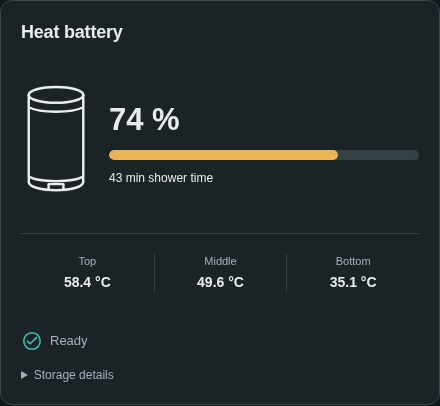
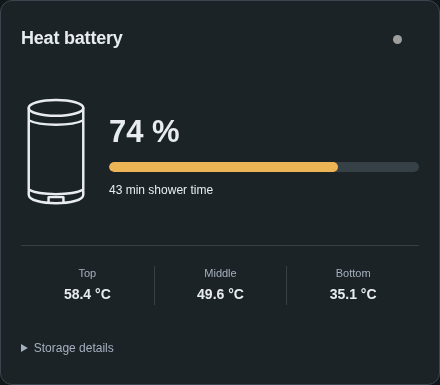
Use the Overview status dot on the Heat Battery card

diff --git a/src/cards/heat-battery-card.ts b/src/cards/heat-battery-card.ts
@@ -10,7 +10,8 @@ export class QuattHeatBatteryCard extends BaseCard {
     .meter{height:10px;border-radius:5px;background:var(--qc-line);overflow:hidden}.fill{height:100%;background:var(--qc-heat);border-radius:inherit}
     .shower{font-size:12px;margin-top:10px}.shower .value{font-size:12px;font-weight:400}
     .temperatures{display:grid;grid-template-columns:repeat(var(--count,3),minmax(0,1fr));padding:20px 0;border-top:1px solid var(--qc-line)}.temperatures .stat{align-items:center;text-align:center;padding:0 8px}.temperatures .stat+.stat{border-left:1px solid var(--qc-line)}
-    .temperatures .value{font-size:14px}.temperatures .label{font-size:11px}.state-line{margin-top:auto;padding-top:18px;font-size:13px}.state-line .icon{width:22px;height:22px;color:var(--qc-good)}
+    .temperatures .value{font-size:14px}.temperatures .label{font-size:11px}
+    .battery-heading{display:flex;align-items:center;gap:10px;margin-bottom:18px}.battery-heading .ob-header{flex:1;min-width:0;margin-bottom:0}
     .details{margin-top:15px;font-size:12px;color:var(--qc-secondary)}summary{cursor:pointer}.details .stat-grid{margin-top:14px}.details .value{font-size:13px}
     @container(max-width:350px){.charge{grid-template-columns:60px minmax(0,1fr);gap:14px}.tank .icon{width:60px;height:110px}.charge .value{font-size:28px}.shower .value{font-size:12px}}
     ha-card.custom-fields{min-height:0}
@@ -23,11 +24,11 @@ export class QuattHeatBatteryCard extends BaseCard {
     const selected=temperatures.filter(([key])=>this.showField(key));
     const details: [MetricRole,string,typeof m.charge][]=[['heaterPower','Charger input',c?.heaterPower||c?.electricPower],['waterPressure','Water pressure',c?.waterPressure],['charging','Storage charging',m.charging],['hotWater','Hot-water use',m.hotWater],['boost','Boost',m.boost]];
     const selectedDetails=details.filter(([key,,reading])=>this.showField(key)&&reading);
-    return html`<ha-card class=${this.config.fields?'custom-fields':''}>${this.renderHeader('Heat battery')}${this.renderNotice()}${this.showField('charge')||this.showField('showerMinutes')?html`<div class="charge"><span class="tank">${icon('tank')}</span><div>
+    return html`<ha-card class=${this.config.fields?'custom-fields':''}><div class="battery-heading">${this.renderHeader('Heat battery')}${this.showField('status')?this.batteryStatus(device):nothing}</div>${this.renderNotice()}${this.showField('charge')||this.showField('showerMinutes')?html`<div class="charge"><span class="tank">${icon('tank')}</span><div>
       <div class="charge-title">${this.value(charge!=null?m.charge:this.showField('showerMinutes')?m.showerMinutes:undefined,charge!=null?'Thermal charge':this.showField('showerMinutes')?'Shower time remaining':'Thermal charge','value',0)}</div>
       ${charge!=null?html`<div class="meter" role="meter" aria-label="Thermal charge" aria-valuemin="0" aria-valuemax="100" aria-valuenow=${charge}><div class="fill" style=${`width:${charge}%`}></div></div>${this.showField('showerMinutes')?html`<div class="shower">${this.value(m.showerMinutes,'Shower time','value',0)} shower time</div>`:nothing}`:html`<span class="label">${this.showField('showerMinutes')?'Shower time remaining':'Thermal charge unavailable'}</span>`}
     </div></div>`:nothing}${selected.length?html`<div class="temperatures" style=${`--count:${selected.length}`}>${selected.map(([key,label])=>this.metric(label,m[key]))}</div>`:nothing}
-    ${this.showField('status')?html`<div class="state-line">${icon(device.available?'check':'warning')}<span>${!device.available?'Unavailable':m.status?.text|| (this.on(m.charging)?'Charging':'Status unavailable')}</span></div>`:nothing}
+
     ${selectedDetails.length?html`<details class="details"><summary>Storage details</summary><div class="stat-grid">${selectedDetails.map(([,label,reading])=>this.metric(label,reading,true))}</div></details>`:nothing}
     </ha-card>`;
   }

diff --git a/tests/browser/extended-card-states.spec.ts b/tests/browser/extended-card-states.spec.ts
@@ -49,11 +49,12 @@ test('battery missing charge, status and optional sensors stay truthful',async({
  await page.evaluate(()=>{window.demo.setScenario('partial');window.demo.setConfig('heat-battery',{fields:{showerMinutes:false}});});
  await expect(card.getByText('Thermal charge unavailable',{exact:true})).toBeVisible();await expect(card.getByRole('meter')).toHaveCount(0);
  await card.evaluate(e=>{const c=e as Card,states={...c.hass.states};for(const [id,s] of Object.entries(states)){if(id.endsWith('heatbatterystatus'))states[id]={...s,state:'unavailable'};if(id.endsWith('isheatbatterycharging'))states[id]={...s,state:'on'};}c.hass={...c.hass,states};});
- await expect(card.locator('.state-line')).toHaveText('Charging');
+ await expect(card.locator('.battery-status')).toHaveAttribute('title','Heat battery status: Unavailable');
+ await expect(card.locator('.status-dot')).not.toHaveClass(/\bon\b/);
  await card.evaluate(e=>{const c=e as Card,states={...c.hass.states};for(const [id,s] of Object.entries(states))if(id.endsWith('isheatbatterycharging'))states[id]={...s,state:'off'};c.hass={...c.hass,states};});
- await expect(card.locator('.state-line')).toHaveText('Status unavailable');
+ await expect(card.locator('.battery-status')).toHaveAttribute('title','Heat battery status: Unavailable');
  await card.evaluate(e=>{const c=e as Card,states={...c.hass.states};for(const [id,s] of Object.entries(states))if(id.includes('heat_battery'))states[id]={...s,state:'unavailable'};c.hass={...c.hass,states};});
- await expect(card.locator('.state-line')).toHaveText('Unavailable');
+ await expect(card.locator('.battery-status')).toHaveAttribute('title','Heat battery status: Unavailable');
 });
 
 test('pump status opt-in handles defrost, offline, unknown status and unknown device selection',async({page})=>{
@@ -92,9 +93,9 @@ test('circuit optional readings, missing devices and uncertain topology do not f
  await expect(card.getByText(/Pump order unavailable/)).toBeVisible();await expect(card.locator('.pipes')).toHaveCount(0);await expect(card.locator('.delta')).toContainText('—');
 });
 
-test('overview heat battery dot is green for Charging and returns to gray when inactive',async({page})=>{
+for(const type of ['overview','heat-battery'])test(`${type} heat battery dot is green for Charging and returns to gray when inactive`,async({page})=>{
  await page.goto('/');
- const card=page.locator('quatt-overview-card'),dot=card.locator('.battery-status .status-dot');
+ const card=page.locator(`quatt-${type}-card`),dot=card.locator('.battery-status .status-dot');
  await card.evaluate(e=>{e.style.setProperty('--success-color','#43a047');e.style.setProperty('--disabled-text-color','#9e9e9e');});
  for(const status of ['Off','Charging','Ready','CHARGING','unavailable',' charging ','On','Discharging','Not charging','unknown','Off']){
   await card.evaluate((e,status)=>{
@@ -110,6 +111,6 @@ test('overview heat battery dot is green for Charging and returns to gray when i
  await page.evaluate(()=>document.addEventListener('hass-more-info',e=>{document.body.dataset.entity=(e as CustomEvent).detail.entityId;}));
  await card.locator('.battery-status').click();
  await expect(page.locator('body')).toHaveAttribute('data-entity',/heatbatterystatus$/);
- await page.evaluate(()=>window.demo.setConfig('overview',{fields:{'heatBattery.status':false}}));
+ await page.evaluate(type=>window.demo.setConfig(type,{fields:{[type==='overview'?'heatBattery.status':'status']:false}}),type);
  await expect(dot).toHaveCount(0);
 });

diff --git a/src/cards/overview-card.ts b/src/cards/overview-card.ts
@@ -1,7 +1,7 @@
 import { css, html, nothing } from 'lit';
 import { BaseCard } from '../base-card';
 import { icon } from '../ui';
-import type { MetricRole, Reading, QuattDevice } from '../types';
+import type { MetricRole, Reading } from '../types';
 export class QuattOverviewCard extends BaseCard {
   static getStubConfig() { return {type:'custom:quatt-overview-card'}; }
   static styles=[BaseCard.styles,css`
@@ -19,26 +19,12 @@ export class QuattOverviewCard extends BaseCard {
     .flow.partial{grid-template-columns:repeat(var(--count),minmax(0,1fr))}
     .battery{border-top:1px solid var(--qc-line);padding-top:18px;margin-top:4px}
     .battery-header{display:flex;align-items:center;gap:10px;margin-bottom:14px}.battery-header .icon{width:23px;height:36px;color:var(--qc-heat)}
-    .battery-status{margin-left:auto;width:44px;height:36px;padding:0;border:0;background:transparent;display:grid;place-items:center;border-radius:6px;flex-shrink:0}
-    .status-dot{width:9px;height:9px;border-radius:50%;background:var(--disabled-text-color,#9e9e9e)}
-    .status-dot.on{background:var(--success-color,#43a047)}.status-dot.off{background:var(--disabled-text-color,#9e9e9e)}
-    button.battery-status:hover{background:var(--qc-subtle)}
     h3{font-size:14px;font-weight:600;margin:0}.battery-header .label{font-size:11px}
     .battery-readings{display:grid;grid-template-columns:repeat(2,minmax(0,1fr));gap:14px}.battery-readings .stat{gap:3px}.battery-readings .value{font-size:16px}
     .charge-track{height:6px;border-radius:3px;background:var(--qc-line);overflow:hidden;margin-top:14px}.charge-fill{height:100%;background:var(--qc-heat);border-radius:inherit}
     ha-card.custom-fields{min-height:0}
     @container(max-width:350px){.node .value{font-size:16px}.flow{grid-template-columns:1fr 16px 1fr 16px 1fr}.arrow{width:16px}.symbol .icon{width:43px}.circle .icon{width:27px}}
   `];
-  private batteryStatus(battery:QuattDevice) {
-    const reading=battery.metrics.status,text=battery.available?this.reading(reading):'Unavailable';
-    const normalized=text.trim().toLowerCase();
-    const state=!battery.available?'unknown':['on','true','1','charging'].includes(normalized)?'on':['off','false','0'].includes(normalized)?'off':'unknown';
-    const label=`Heat battery status: ${text==='—'?'Unavailable':text}`;
-    const dot=html`<span class=${`status-dot ${state}`} aria-hidden="true"></span>`;
-    return reading?.entityId&&/^(sensor|binary_sensor)\./.test(reading.entityId)
-      ? html`<button class="battery-status" title=${label} aria-label=${`${label}. Show details`} @click=${()=>this.moreInfo(reading.entityId)}>${dot}</button>`
-      : html`<span class="battery-status" role="img" title=${label} aria-label=${label}>${dot}</span>`;
-  }
   protected render() {
     const s=this.snapshot,m=s.system;
     const nodes=[{key:'electricPower' as const,label:'Electric input',symbol:'electric',style:'circle electric',digits:2},{key:'cop' as const,label:'COP',symbol:'pump',style:'',digits:1},{key:'heatPower' as const,label:'Heat output',symbol:'heat',style:'circle heat',digits:2}].filter(n=>this.showField(n.key));

diff --git a/src/base-card.ts b/src/base-card.ts
@@ -1,5 +1,5 @@
 import { LitElement, html, type PropertyValues, type CSSResultGroup } from 'lit';
-import type { CardConfig, HomeAssistant, RegistryData, Snapshot, Reading } from './types';
+import type { CardConfig, HomeAssistant, RegistryData, Snapshot, Reading, QuattDevice } from './types';
 import { buildSnapshot } from './data';
 import { loadRegistry, watchRegistry } from './connection';
 import { cardStyles, icon } from './ui';
@@ -20,6 +20,17 @@ export abstract class BaseCard extends LitElement {
   private timer?: ReturnType<typeof setInterval>;
   private registryGeneration = 0;
   private trackedIds = new Set<string>();
+
+  protected batteryStatus(battery:QuattDevice) {
+    const reading=battery.metrics.status,text=battery.available?this.reading(reading):'Unavailable';
+    const normalized=text.trim().toLowerCase();
+    const state=!battery.available?'unknown':['on','true','1','charging'].includes(normalized)?'on':['off','false','0'].includes(normalized)?'off':'unknown';
+    const label=`Heat battery status: ${text==='—'?'Unavailable':text}`;
+    const dot=html`<span class=${`status-dot ${state}`} aria-hidden="true"></span>`;
+    return reading?.entityId&&/^(sensor|binary_sensor)\./.test(reading.entityId)
+      ? html`<button class="battery-status" title=${label} aria-label=${`${label}. Show details`} @click=${()=>this.moreInfo(reading.entityId)}>${dot}</button>`
+      : html`<span class="battery-status" role="img" title=${label} aria-label=${label}>${dot}</span>`;
+  }
 
   get hass(): HomeAssistant { return this._hass || { states: {} }; }
   set hass(value: HomeAssistant) {

diff --git a/src/ui.ts b/src/ui.ts
@@ -31,6 +31,10 @@ export const cardStyles = css`
   .icon { width: 22px; height: 22px; fill: none; stroke: currentColor; stroke-width: 1.7; stroke-linecap: round; stroke-linejoin: round; flex: 0 0 auto; }
   .icon-pump { stroke-width:1.05; }
   .muted { color: var(--qc-secondary); } .good { color: var(--qc-good); } .warning { color: var(--qc-warning); } .error { color: var(--qc-error); }
+    .battery-status{margin-left:auto;width:44px;height:36px;padding:0;border:0;background:transparent;display:grid;place-items:center;border-radius:6px;flex-shrink:0}
+    .status-dot{width:9px;height:9px;border-radius:50%;background:var(--disabled-text-color,#9e9e9e)}
+    .status-dot.on{background:var(--success-color,#43a047)}.status-dot.off{background:var(--disabled-text-color,#9e9e9e)}
+    button.battery-status:hover{background:var(--qc-subtle)}
   .reading { border:0; padding:0; border-radius:3px; background:transparent; text-align:inherit; font:inherit; }
   .reading:hover { text-decoration:underline; text-underline-offset:3px; }
   .value { color:var(--primary-text-color,#202530); font-weight:600; font-size:16px; overflow-wrap:anywhere; }

diff --git a/CHANGELOG.md b/CHANGELOG.md
@@ -1,5 +1,9 @@
 # Changelog
 
+## 0.10.1
+
+- Replace the Heat Battery card status text with the same green/grey dot used by Overview. Share status mapping, theme colors, accessible descriptions, and sensor-detail interaction between the cards.
+
 ## 0.10.0
 
 - Integrate Heat Charger and Heat Battery inside the heating loop, with a responsive mobile layout and the Heat Charger equipment icon.
